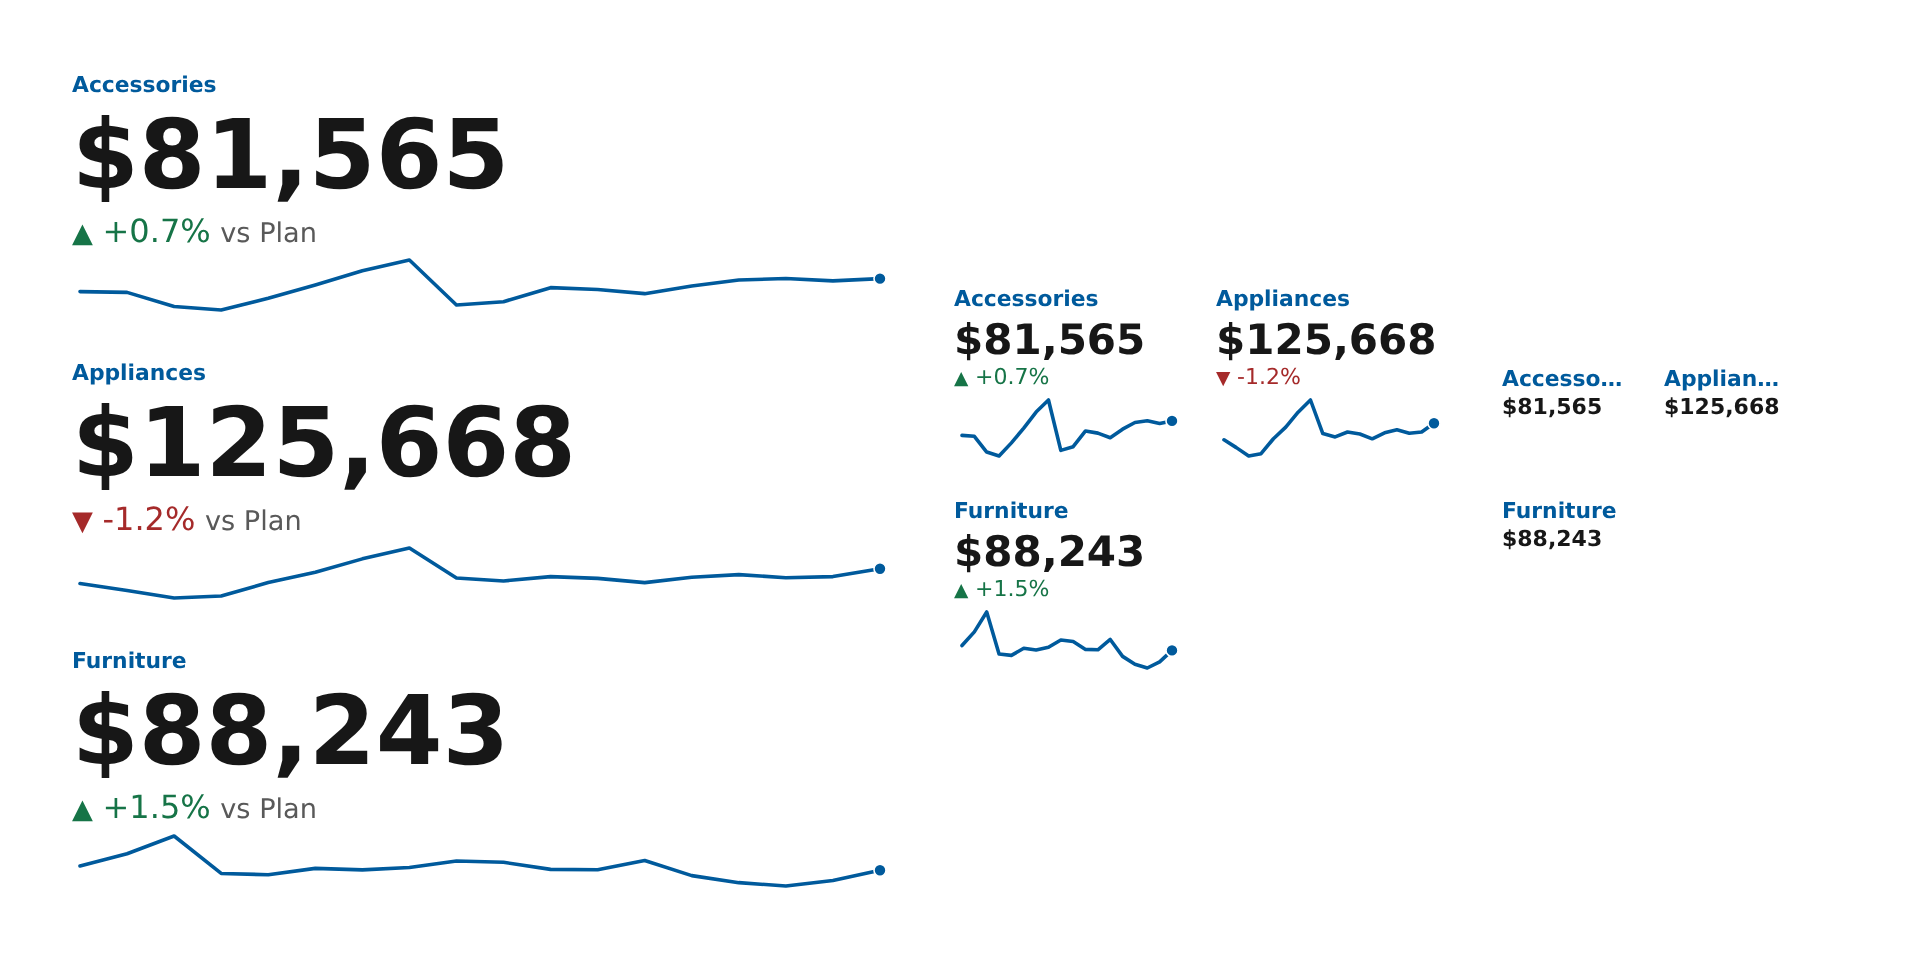
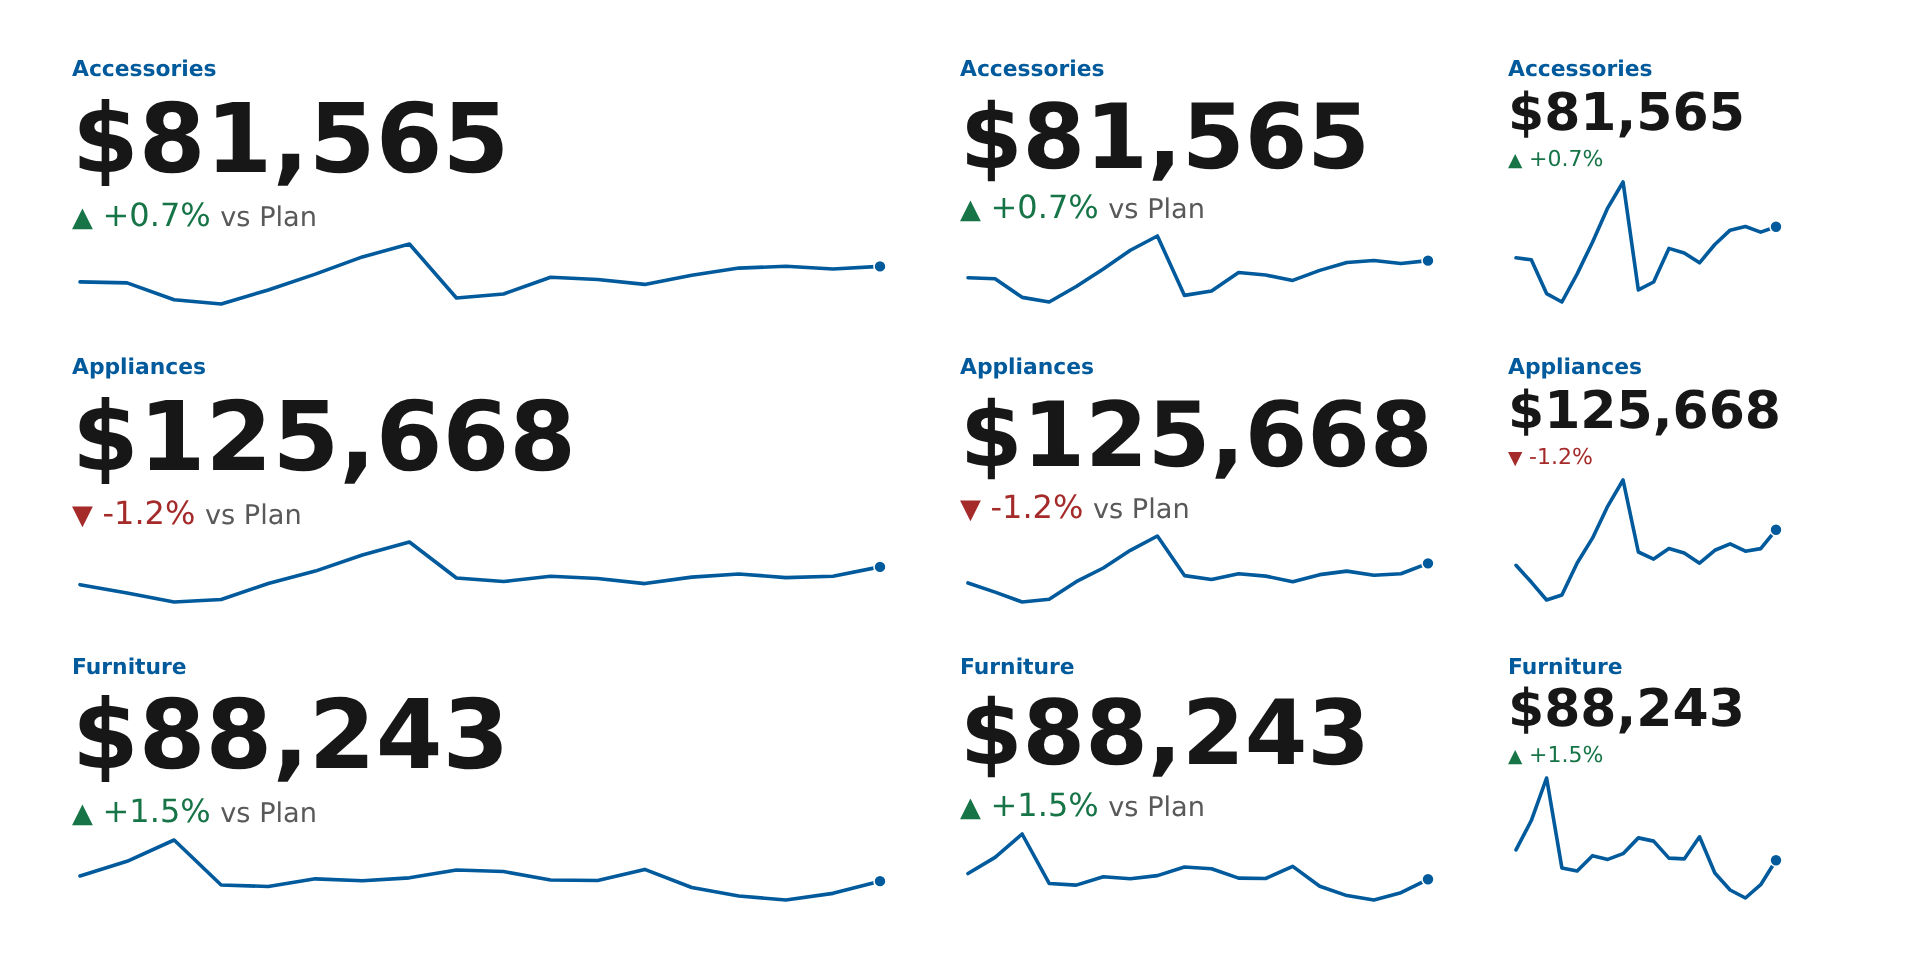
Tm Headline Cards content pack: 18 pictures over three datasets, 12 strips, Choose a look

diff --git a/listing/products/tm-headline-cards/docs/choose-a-look.md b/listing/products/tm-headline-cards/docs/choose-a-look.md
@@ -1,0 +1,43 @@
+---
+title: Choose a look
+order: 15
+---
+# Choose a look
+
+Four starting points. Each one names the options to set. Everything else keeps its default.
+
+## Operations status board
+
+A wall screen where red must jump out, such as support resolution times against an SLA.
+
+- **Comparison**: Good direction **Lower is better**, a Neutral band of 5, Change as **Percent change**, and a label such as `vs SLA`.
+- **Status colour**: turn on **Card background** and **Trend**.
+- **Trend**: Reference line **Comparison**, so the target shows as a dashed line.
+- **Styling → Cards**: a corner radius of about 10.
+
+## Executive summary
+
+A few large numbers with their story, on a slide-like sheet.
+
+- **Layout**: Card arrangement **Stacked**, Alignment **Center**, Columns **At most 3**.
+- **Data**: add a **Headline** measure, such as `Sum(TOTAL <Category> Sales)` for the year to date, and a **Comparison 2** for a stretch target.
+- **Trend**: **Area** or **Line** with the latest, highest and lowest points marked.
+- **Styling → Cards**: **Filled**, with **Spacious** padding.
+
+## Dense store or region grid
+
+Up to 24 categories on one object, for scanning.
+
+- **Layout**: Card arrangement **Compact**, Card order **Change, highest first**.
+- **Comparison**: turn off **Show change label** to save space.
+- **Trend**: **Line** with Markers **Latest point**.
+- **Styling → Cards**: **Plain**, so the gap alone separates the cards.
+
+## Monthly scorecard
+
+A row of wide cards next to a table or a filter pane.
+
+- **Layout**: Card arrangement **Side by side**, Columns **At most 1** or **At most 2**.
+- **Trend**: **Win and loss**, with Latest points shown set to 12, for a month-by-month record against plan.
+- **Status colour**: **Card accent bar**.
+- **Styling → Cards**: **Outlined**, with the accent bar on the left.

diff --git a/listing/products/tm-headline-cards/description.md b/listing/products/tm-headline-cards/description.md
@@ -1,3 +1,5 @@
-Tm Headline Cards shows a grid of cards inside your Qlik Cloud Analytics app, one card for each category, such as a product line or a region. Each card shows the latest value, its change against a plan or an earlier period, and a small trend line of the recent values.
+Tm Headline Cards shows one card per category, such as a product line, a support team or a web channel: the latest value, its change against a plan, a target or last year, and a small trend.
 
-Use it when a single KPI hides the trend and a line chart shows too much detail. The cards use the app's number formats and theme, fit the object size, and filter the sheet when you click them. The chart reads your data and never changes it. It shows up to 24 categories and the latest 60 points for each.
+You choose how much each card says. Lay the cards out stacked, compact or side by side; show the change as a difference, a percent or both, with lower-is-better for costs and times; draw the trend as a line, area, columns or win and loss; and colour cards by status or by your own rule.
+
+The look comes from Qlik's own Styling panel and app theme. Click to filter, hover for details, or open a detail sheet from a card.

diff --git a/listing/products/tm-headline-cards/docs/selections-and-keyboard.md b/listing/products/tm-headline-cards/docs/selections-and-keyboard.md
@@ -15,3 +15,10 @@ order: 30
 - Press the arrow keys to move along the points, and **Enter** or **Space** to select the focused point.
 
 Each card name and point has a label for screen readers with the category, period and value.
+
+## Tooltips and sheet links
+
+Hover a trend point, or move to it with the arrow keys, to see its month, value, comparison and change. A shortened headline shows its full number the same way. Turn tooltips off under **Appearance → Tooltip**.
+
+When **Appearance → Link** names a sheet, each card has an **Open sheet ›** link in its footer that opens that sheet. The link is hidden while you edit the sheet.
+
